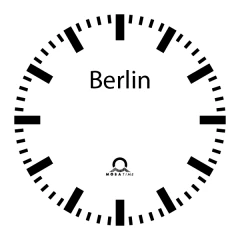
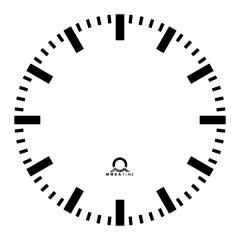
Reduced amount of world clock assets, allow adaption of time zone cities

Changed region(s): [[0.35, 0.2917, 0.6417, 0.3792]]

diff --git a/Resources_prj/pawn_scripts.py b/Resources_prj/pawn_scripts.py
@@ -160,7 +160,7 @@ class worldclock(pawn_base.PawnModule):
         self.ScriptFileName = 'worldclock.amx'
         self.ScriptResourcePath = 'worldclock'
         self.ScriptResourceList = [
-            self.FILE_TEMPLATE_WEBP % ii for ii in range(0, 28)
+            self.FILE_TEMPLATE_WEBP % ii for ii in range(0, 5)
         ]
         self.MenuIcon = 'icon.png'
         self.SoundPath = 'worldclock'
